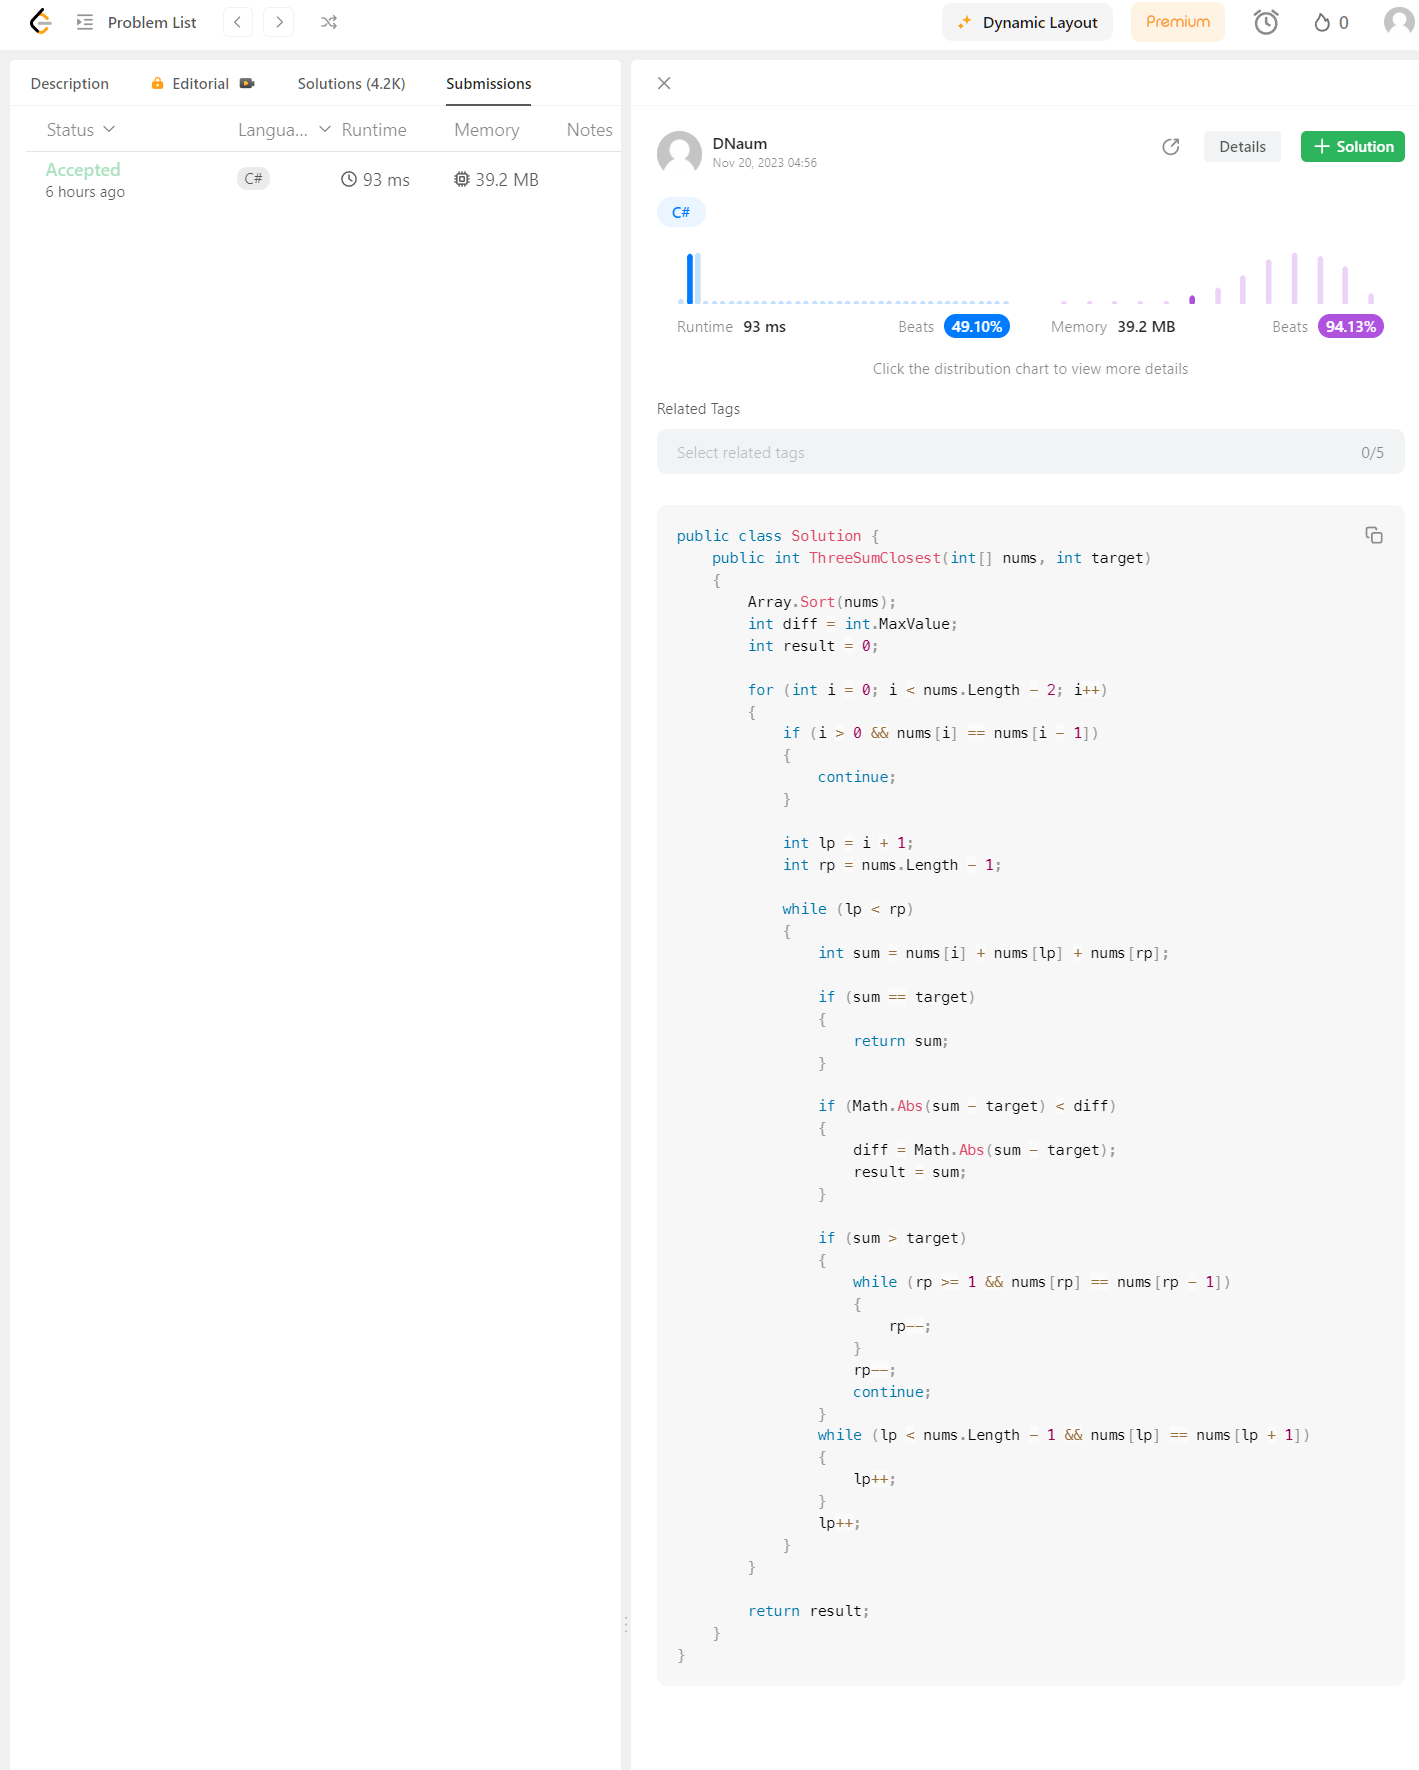
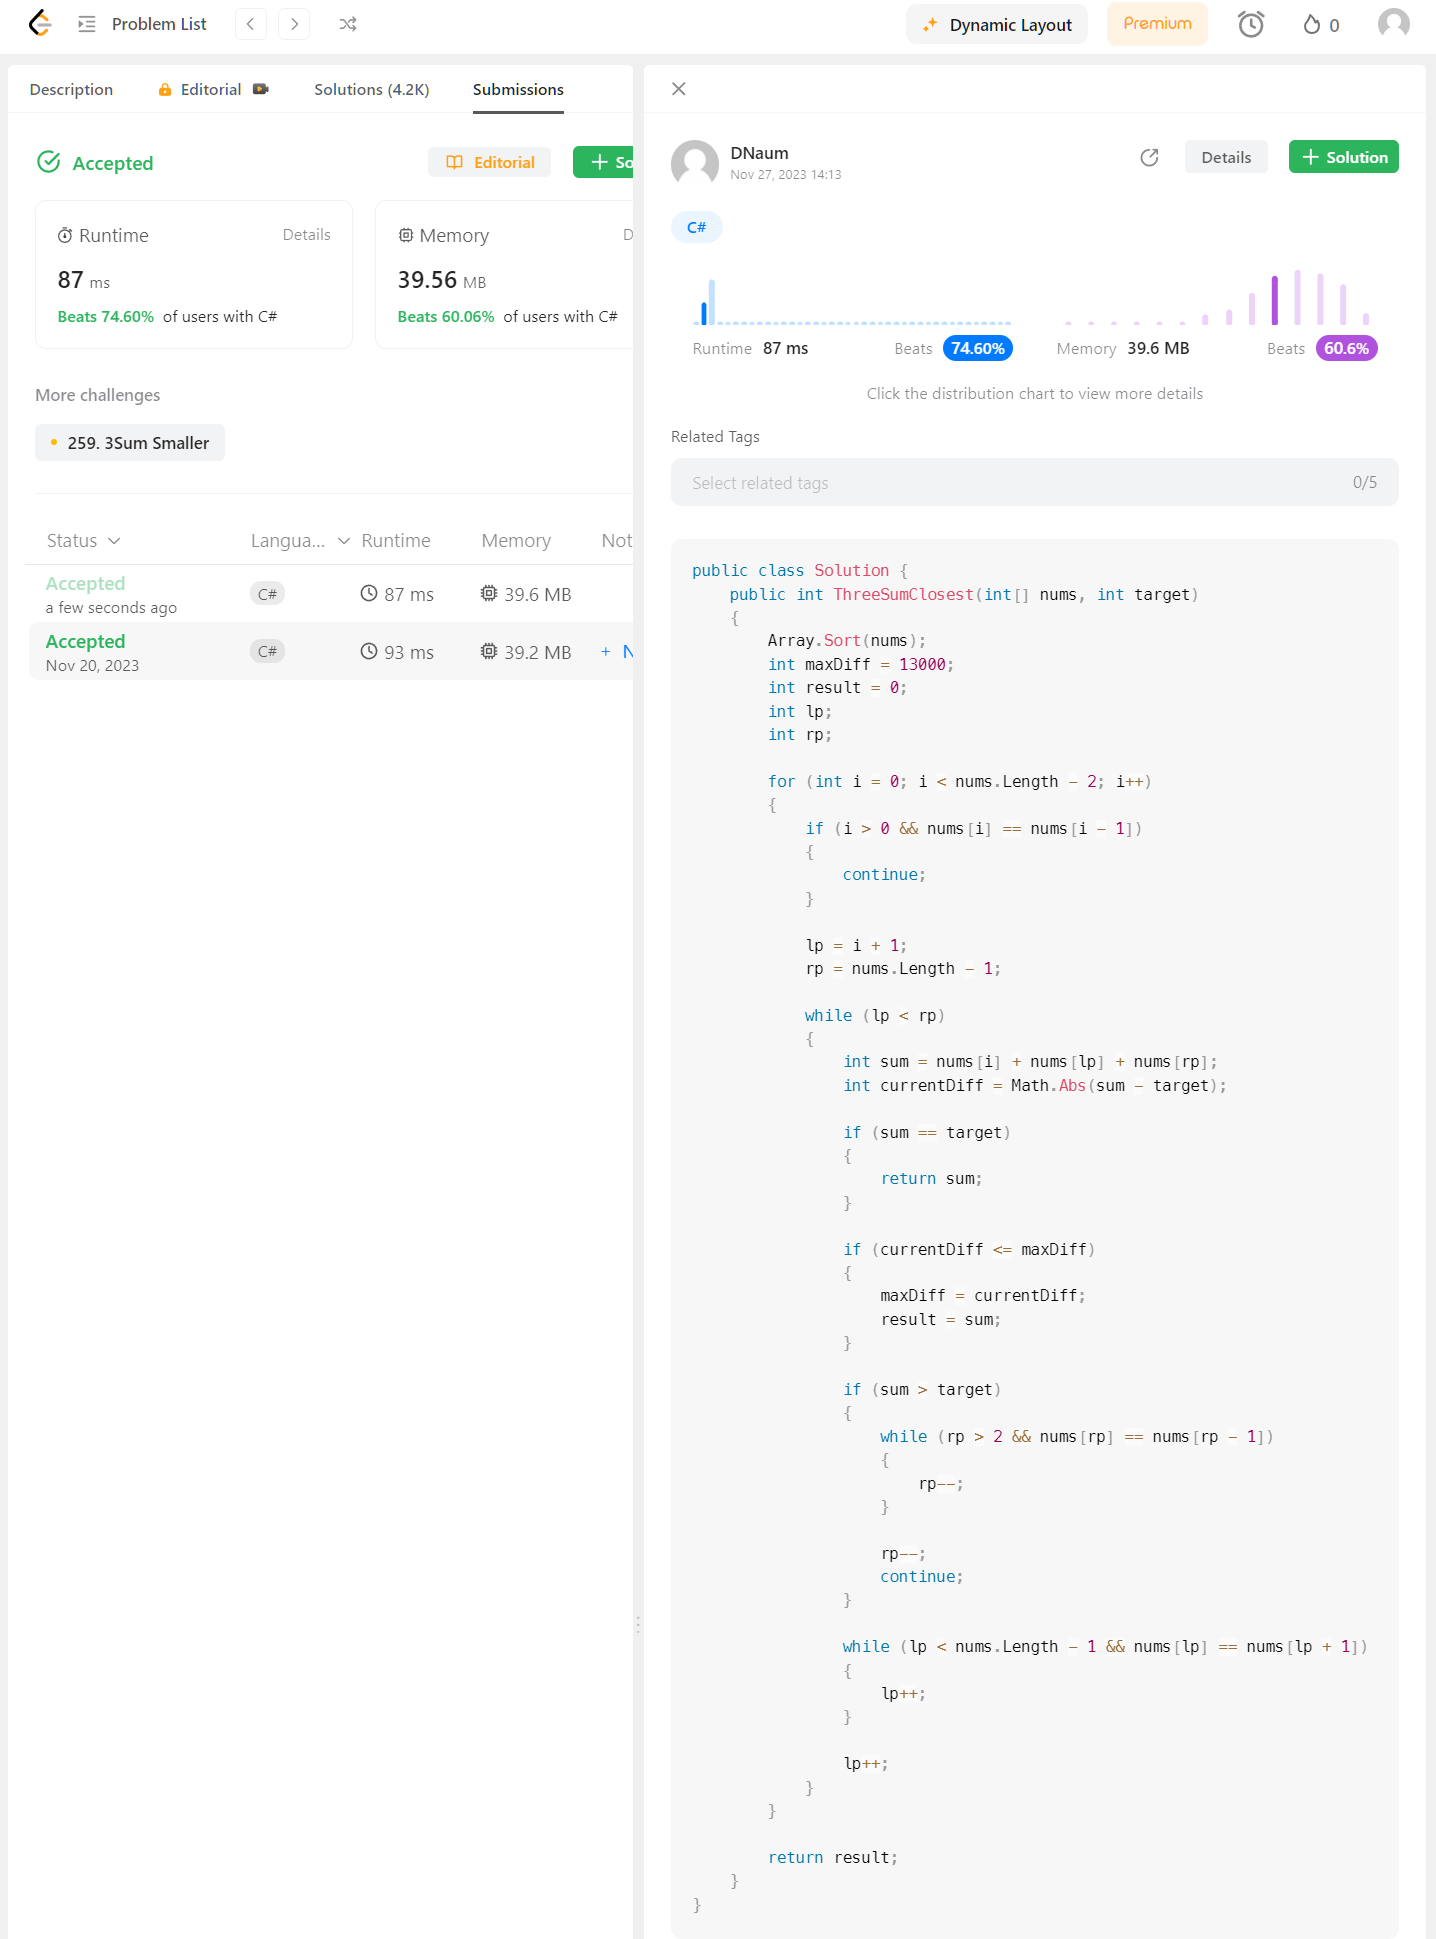
Changed maxDiff value to 13000 instead of int.MaxValue Introduced currentDiff variable and renamed diff to maxDiff Fixed formatting (added lines)

diff --git a/ScnSoft-Education/LeetCodeTraining/3SumClosest/ThreeSumClosestSolution.cs b/ScnSoft-Education/LeetCodeTraining/3SumClosest/ThreeSumClosestSolution.cs
@@ -6,8 +6,10 @@
         public static int ThreeSumClosest(int[] nums, int target)
         {
             Array.Sort(nums);
-            int diff = int.MaxValue;
+            int maxDiff = 13000;
             int result = 0;
+            int lp;
+            int rp;
 
             for (int i = 0; i < nums.Length - 2; i++)
             {
@@ -16,37 +18,41 @@
                     continue;
                 }
 
-                int lp = i + 1;
-                int rp = nums.Length - 1;
+                lp = i + 1;
+                rp = nums.Length - 1;
 
                 while (lp < rp)
                 {
                     int sum = nums[i] + nums[lp] + nums[rp];
+                    int currentDiff = Math.Abs(sum - target);
 
                     if (sum == target)
                     {
                         return sum;
                     }
 
-                    if (Math.Abs(sum - target) < diff)
+                    if (currentDiff <= maxDiff)
                     {
-                        diff = Math.Abs(sum - target);
+                        maxDiff = currentDiff;
                         result = sum;
                     }
 
                     if (sum > target)
                     {
-                        while (rp >= 1 && nums[rp] == nums[rp - 1])
+                        while (rp > 2 && nums[rp] == nums[rp - 1])
                         {
                             rp--;
                         }
+                        
                         rp--;
                         continue;
                     }
+
                     while (lp < nums.Length - 1 && nums[lp] == nums[lp + 1])
                     {
                         lp++;
                     }
+
                     lp++;
                 }
             }

diff --git a/ScnSoft-Education/LeetCodeTraining.Tests/ThreeSumClosestTests.cs b/ScnSoft-Education/LeetCodeTraining.Tests/ThreeSumClosestTests.cs
@@ -7,13 +7,15 @@ namespace LeetCodeTraining.Tests
         [Theory]
         [InlineData(new int[] { -1, 2, 1, -4 }, 1, 2)]
         [InlineData(new int[] { 0, 0, 0 }, 1, 0)]
-        [InlineData(new int[] { 1, 2, 4, 10 }, int.MaxValue, 16)]
-        [InlineData(new int[] { -6, -20, 3, 6, -7 }, int.MinValue, -33)]
+        [InlineData(new int[] { 1, 2, 4, 10 }, 10000, 16)]
+        [InlineData(new int[] { -6, -20, 3, 6, -7 }, -10000, -33)]
         [InlineData(new int[] { 1, 1, 1 }, 1, 3)]
         [InlineData(new int[] { -4, -2, 0, 2, 4, -3, -1, 1, 3 }, -10, -9)]
         [InlineData(new int[] { -4, -2, 0, 2, 4, -3, -1, 1, 3 }, 10, 9)]
         [InlineData(new int[] { -4, -2, 0, 2, 4, -3, -1, 1, 3 }, -5, -5)]
         [InlineData(new int[] { -4, -2, 0, 2, 4, -3, -1, 1, 3 }, 4, 4)]
+        [InlineData(new int[] { 1000, 1000, 1000 }, -10000, 3000)]
+        [InlineData(new int[] { -1000, -1000, -1000 }, 10000, -3000)]
         public void ThreeSumClosestTest(int[] nums, int target, int expectedResult)
         {
             //Act
